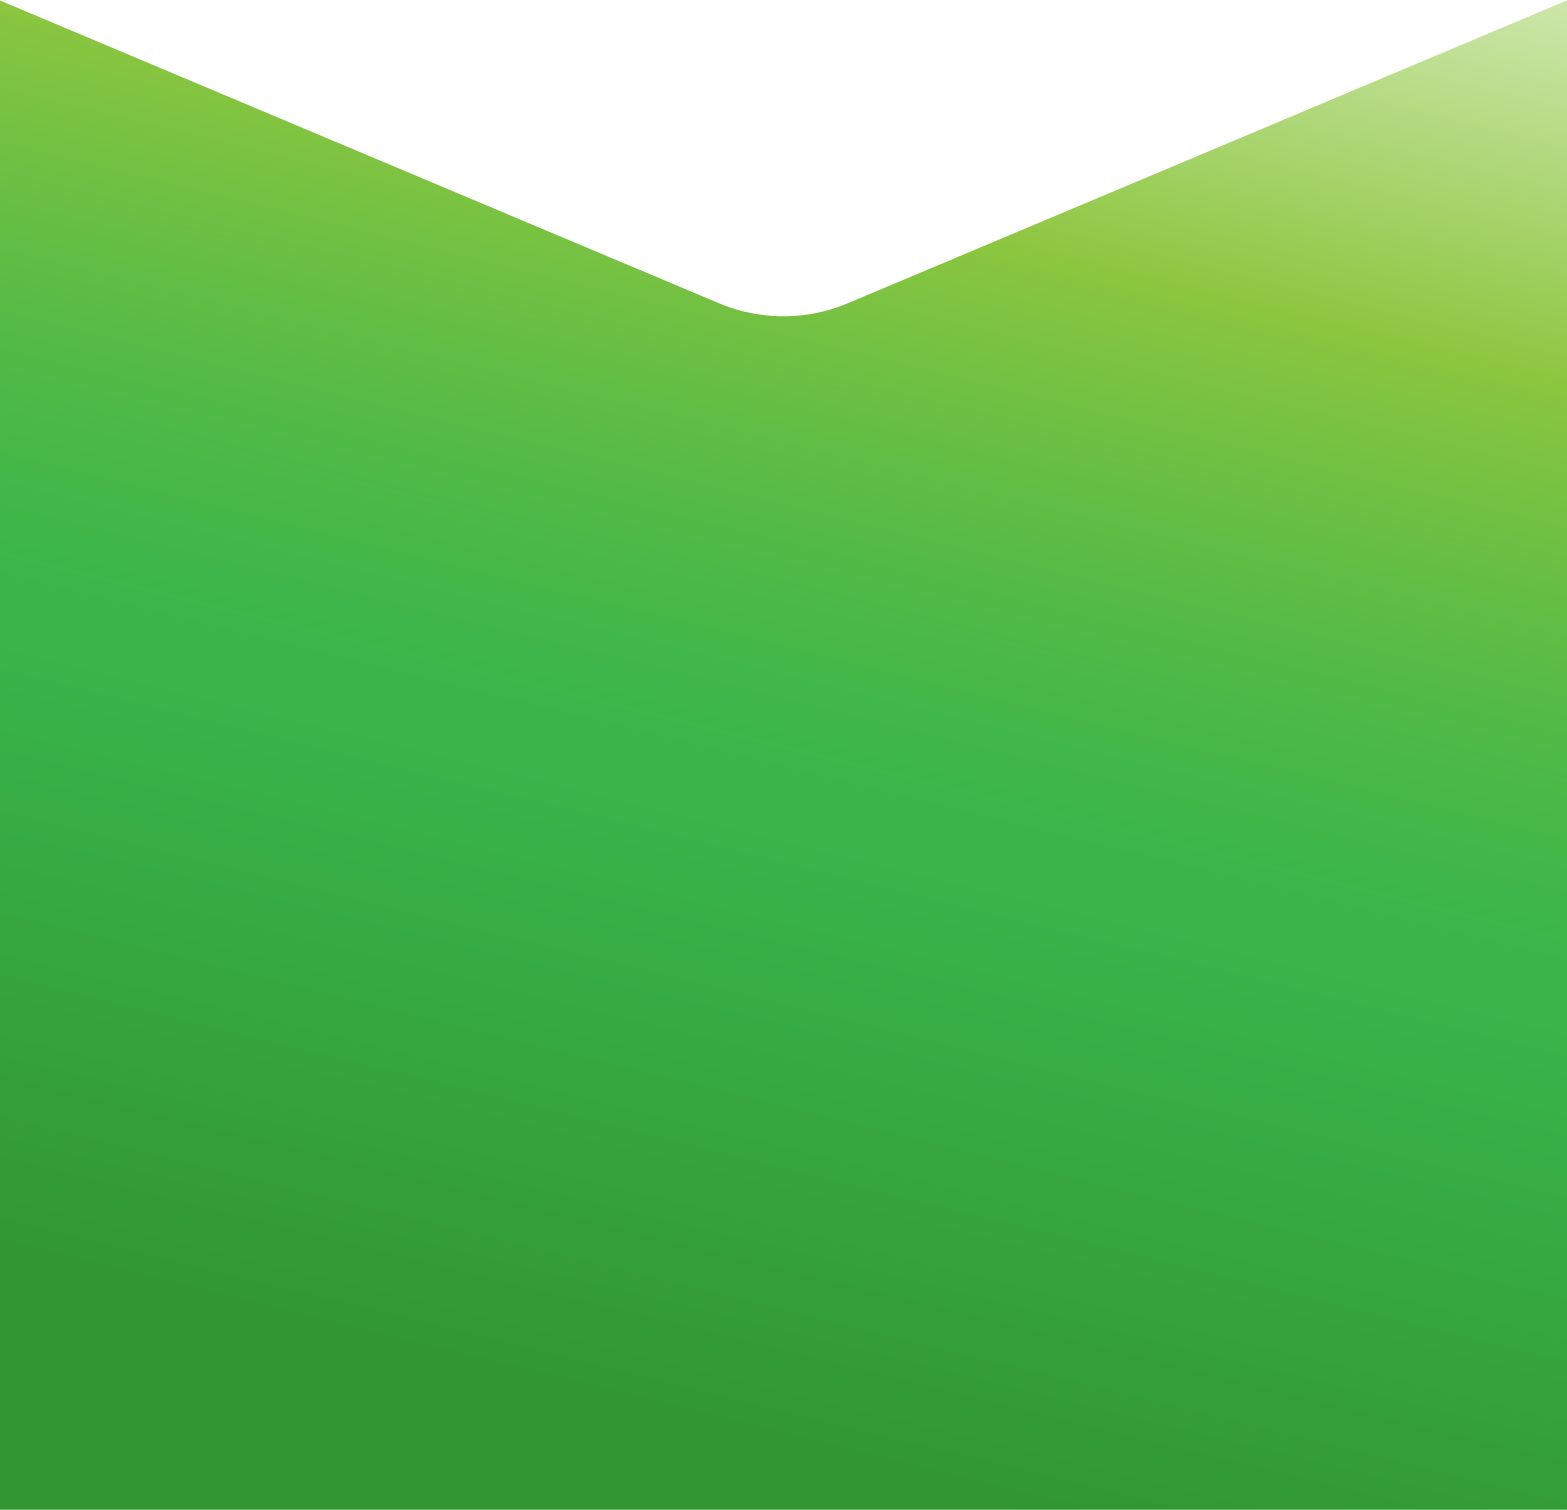
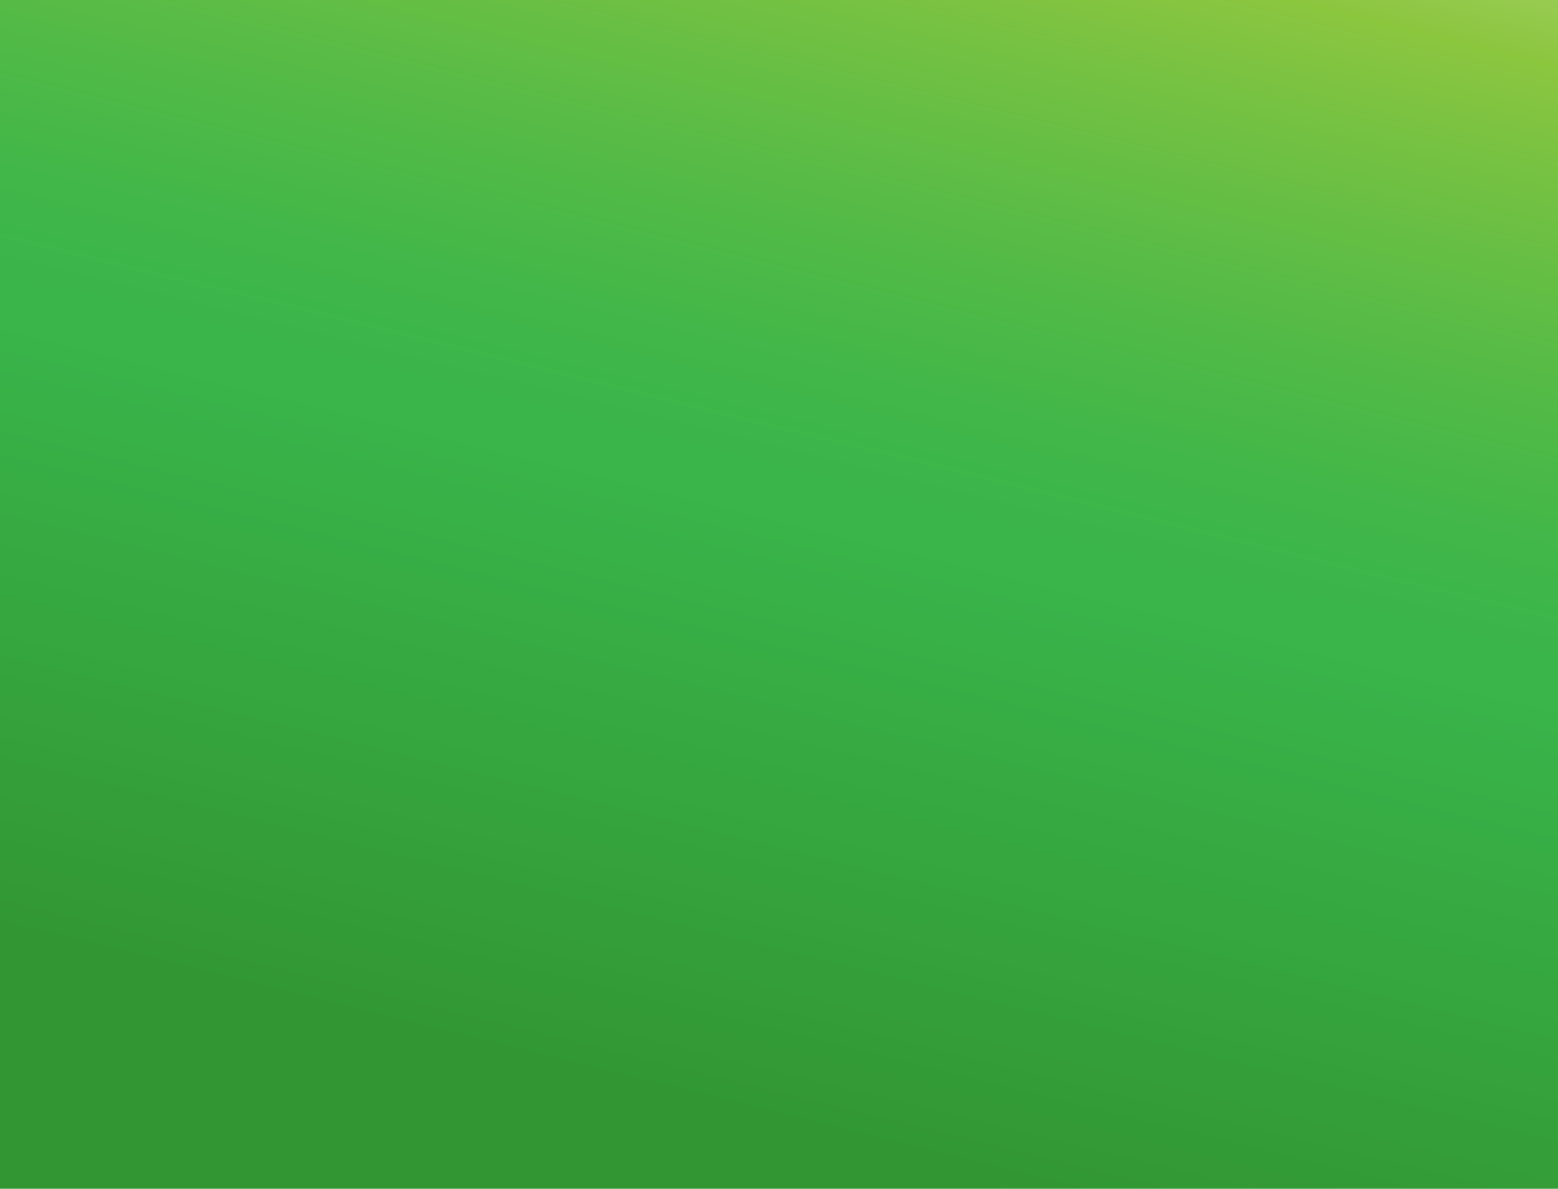
kajsld

diff --git a/live.html b/live.html
@@ -86,12 +86,16 @@
 
       <div class="containerCentral">
         <h2 class="titulo">DECIDA ONDE, QUANDO <br/><span class="verde">E COMO IRÁ CONSULTAR</span></h2>
-        <p class="subtitulo">Agende consultas virtuais domiciliares ou no consultório. Mais praticidade e mais tempo pra você!</p>
+        <p class="subtitulo">Agende <b class="bold">consultas virtuais domiciliares ou no consultório.</b> Mais praticidade e mais tempo pra você!</p>
       </div>
 
-      <div class="containerCentral" id="page3">
-        <h2 class="tituloBranco" id="tituloBrancoPage3">SEGUNDO <br/><span class="tituloBrancoBold">ATENDIMENTO</span></h2>
-        <p class="subtituloBranco" id="subtituloBrancoPage3"><b class="boldBranco">Especialistas</b> do mundo todo à sua disposição <b class="boldBranco">em um clique!</b> Conte com uma segunda opinião especializada!</p>
+      <div class="containerCentral">
+        <img id="cellphone3" src="images/Live/Page3/cellphone-3.png">
+        <div id="page3">
+          <h2 class="tituloBranco" id="tituloBrancoPage3">SEGUNDO <br/><span class="tituloBrancoBold">ATENDIMENTO</span></h2>
+          <p class="subtituloBranco" id="subtituloBrancoPage3"><b class="boldBranco">Especialistas</b> do mundo todo à sua disposição <b class="boldBranco">em um clique!</b> Conte com uma segunda opinião especializada!</p>
+        </div>
+        <img id="cellphone4" src="images/Live/Page3/cellphone-4.png">
       </div>
 
       <div class="containerCentral">
@@ -117,14 +121,23 @@
         <p class="subtitulo"><b class="bold">Acompanhe a sua saúde</b> e de toda sua família. <b class="bold">Compartilhe exames e consultas com seu médico ou com um especialista.</b></p>
       </div>
 
-      <div class="containerCentral">
-        <h2 class="tituloBranco">WALLET LIVE <br/><span class="tituloBrancoBold">DOCUMENTOS</span></h2>
-        <p class="subtituloBranco">Todos os seus <b class="boldBranco">documentos mais importantes</b> e de toda a sua família na palma da mão.</p>
+      <div class="containerCentral" >
+        <img id="cellphone7" src="images/Live/Page6/cellphone-7.png">
+        <div id="page6">
+          <h2 class="tituloBranco" id="tituloBrancoPage6">WALLET LIVE <br/><span class="tituloBrancoBold">DOCUMENTOS</span></h2>
+          <p class="subtituloBranco">Todos os seus <b class="boldBranco">documentos mais importantes</b> e de toda a sua família na palma da mão.</p>
+        </div>
+        <img id="cellphone8" src="images/Live/Page6/cellphone-8.png">
       </div>
 
       <div class="containerCentral">
         <h2 class="titulo">LIVE CHECKUPS <br/><span class="verde">PREVENTIVOS</span></h2>
         <p class="subtitulo">Agende checkups preventivos e mantenha sua saúde em dia. Os resultados serão armazenados e compartilhados diretamente com o seu médico.</p>
+      </div>
+
+      <div class="containerCentral">
+        <img id="cellphone9" src="images/Live/Page7/cellphone-9.png">
+        <div id="page7"></div>
       </div>
     </div>
 

diff --git a/css/live.css b/css/live.css
@@ -49,7 +49,7 @@
     width: 250px;
 }
 
-#cellphone1, #cellphone2, #cellphone5, #cellphone6 {
+#cellphone1, #cellphone2, #cellphone5, #cellphone6{
     margin-left: -60px;
     width: 35em;
 }
@@ -59,14 +59,69 @@
 }
 
 #page3 {
-    margin-top: -60px;
     background-image: url(../images/Live/Page3/bg-2.png);
     height: 90em;
     background-repeat: no-repeat;
     background-size: cover;
     clip-path: polygon(0 0, 100% 35%, 100% 100%, 0 75%);
+    z-index: 0;
 }
 
 #tituloBrancoPage3 {
     padding-top: 700px;
+}
+
+#cellphone3, #cellphone4 {
+    position: absolute;
+    z-index: 1;
+    margin-left: -300px;
+    width: 40em;
+}
+
+#cellphone3 {
+    margin-top: -20px;
+}
+
+#cellphone4 {
+    margin-top: -600px;
+}
+
+#page6 {
+    margin-top: 30em;
+    margin-bottom: 20em;
+    background-image: url(../images/Live/Page6/bg-3.png);
+    height: 50em;
+    background-repeat: no-repeat;
+    background-size: cover;
+    z-index: 0;
+}
+
+#tituloBrancoPage6 {
+    padding-top: 300px;
+}
+
+#cellphone7, #cellphone8 {
+    position: absolute;
+    z-index: 1;
+    margin-left: -300px;
+    width: 35em;
+    margin-top: -500px;
+}
+
+#page7 {
+    margin-top: 200px;
+    background-image: url(../images/Live/Page7/bg-4.png);
+    height: 50em;
+    background-repeat: no-repeat;
+    background-size: cover;
+    clip-path: polygon(50% 30%, 100% 0, 100% 100%, 0 100%, 0 0);
+    z-index: 0;
+}
+
+#cellphone9 {
+    margin-left: -300px;
+    z-index: 1;
+    width: 35em;
+    position: absolute;
+    margin-top: -200px;
 }
